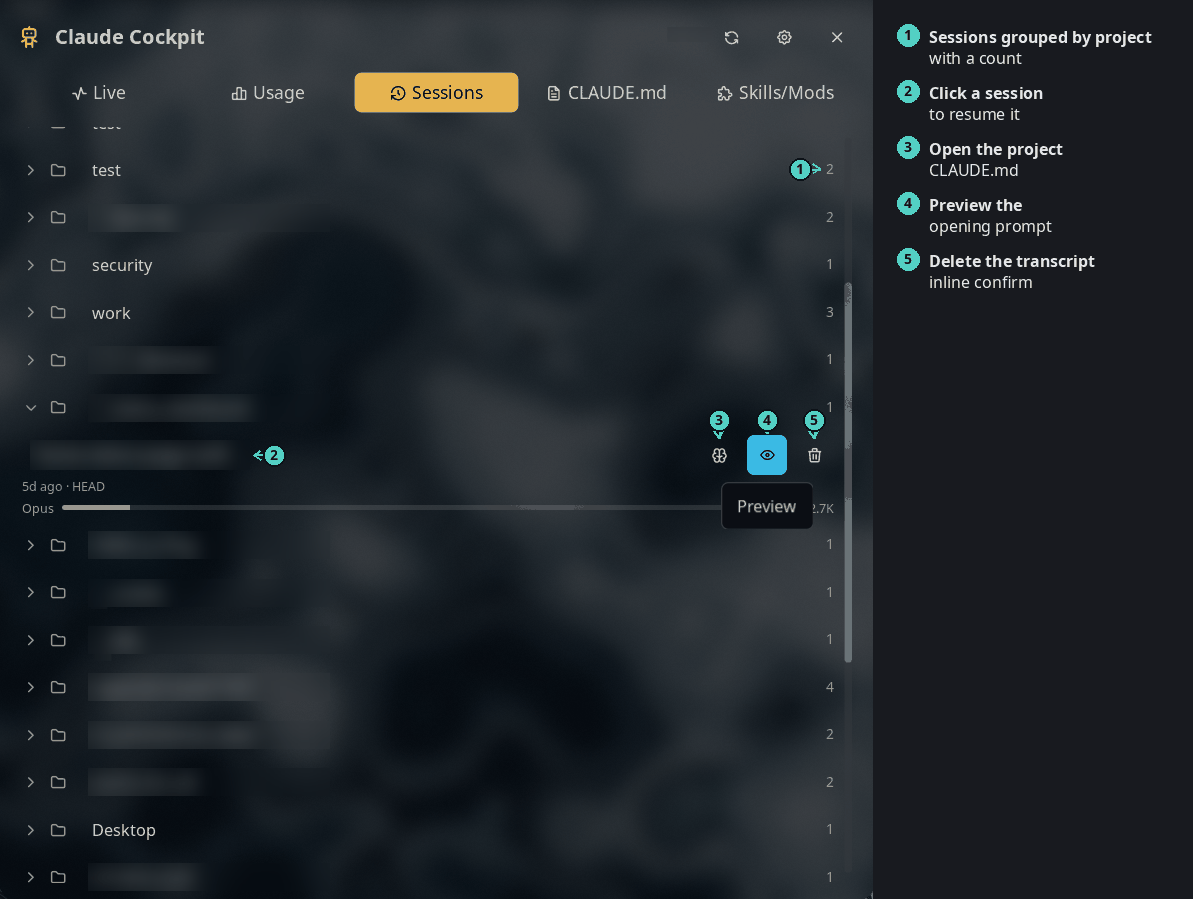
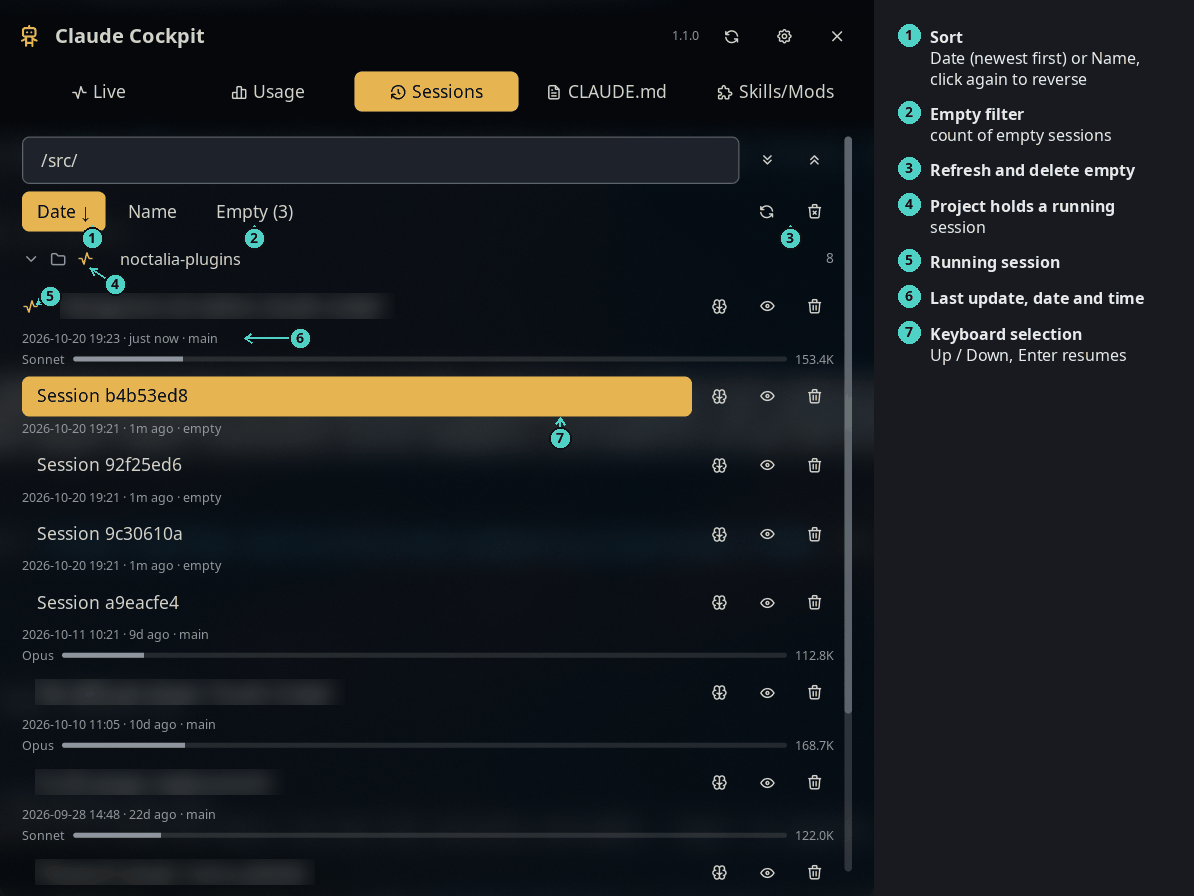
claude-cockpit 1.1.0: capture Return so Enter works without the filter focused, README for the new Sessions features

diff --git a/claude-cockpit/README.md b/claude-cockpit/README.md
@@ -20,8 +20,9 @@ widget and the Live and Usage tabs only show what it publishes.
 
 ## Requirements
 
-- noctalia with `plugin_api = 33` (`revealKey` on `ui.scroll`, which keeps the
-  keyboard selection in view).
+- noctalia v5.3.0 or newer (`plugin_api = 33`). The Sessions tab needs
+  `revealKey` on `ui.scroll`, which keeps the keyboard selection in view. An
+  older noctalia keeps getting the last version it can load.
 - `bash`, `jq` and `curl`.
 - The base tools the scripts call: `find`, `stat`, `grep`, `tac`, `awk`,
   `head`, `tail`, `rm`, `mkdir`, `mv`. Every distribution ships them.
@@ -78,21 +79,40 @@ you choose.
 
 ![Sessions tab](images/sessions.png)
 
-*Every past session, grouped by project. Work project names are blurred in
-this screenshot.*
+*Every past session, grouped by project. Session titles are blurred in this
+screenshot.*
 
 Click a session to resume it (`claude --resume <id>`) in a terminal, in its
 project directory. The search box filters by title, prompt or path.
 
-| Key     | Action                                                   |
-|---------|----------------------------------------------------------|
-| ↑ / ↓   | Move the selection through projects and sessions (hold to repeat) |
-| `Enter` | Resume the selected session, or open or close the selected project |
+| Key      | Action                                                      |
+| ---      | ---                                                         |
+| ↑ / ↓    | Move the selection through projects and sessions. Hold to repeat. |
+| `Return` | Resume the selected session, or open or close the selected project. |
 
-The **Date** and **Name** buttons sort the projects and their sessions. Click
-the active one again to reverse the order. The **Empty** button shows only
-the sessions with no prompt, which Claude Code leaves behind when you open it
-and close it at once. These sessions carry an *empty* tag.
+The list scrolls to keep the selection in view. The keys work on this tab
+only.
+
+Each row shows the date and time of the last update, then the time since.
+A glyph marks a running session, and the project that holds one, even when
+the project is closed.
+
+Buttons on the filter row:
+
+- **Date** and **Name** sort the projects and their sessions. Date puts the
+  newest first, Name goes from A to Z. Click the active button again to
+  reverse the order.
+- **Empty (n)** shows only the empty sessions. Claude Code leaves one behind
+  when you open it and close it before you send a prompt. An empty session
+  has an *empty* tag, and clicking it does nothing, because there is nothing
+  to resume.
+- The refresh button reads the sessions again.
+- The bin button deletes every empty session, after a confirm. A running
+  session is never deleted, even when it has no prompt yet.
+
+![Delete empty sessions](images/sessions-empty.png)
+
+*The empty filter and the delete confirm.*
 
 ### CLAUDE.md
 
@@ -141,7 +161,7 @@ What the plugin touches:
 
 - **Reads** `~/.claude/sessions/*.json` and the transcripts of running
   sessions, every 2 seconds, only while the widget is in activity mode or
-  the Live tab is open. A transcript is parsed again only when it changes.
+  the Live or Sessions tab is open. A transcript is parsed again only when it changes.
   The Usage and Sessions tabs read the other transcripts in small slices.
 - **Reads** `~/.claude/.credentials.json` for the token of the usage query.
 - **Writes** two caches you can delete: `~/.claude/pricing-cache.json` and
@@ -155,7 +175,8 @@ What the plugin touches:
   `niri msg` or `umbriel msg` to focus a window (window ids and pids only,
   never titles).
 - **Deletes**, always after an inline confirm: a session transcript (trash
-  glyph), a plugin or marketplace (through `claude plugin`), a local skill
+  glyph on its row), all empty sessions at once (bin button on the filter
+  row, running sessions kept), a plugin or marketplace (through `claude plugin`), a local skill
   folder (a symlink loses the link only).
 - No rename: Claude Code cannot rename a session after it starts.
 
